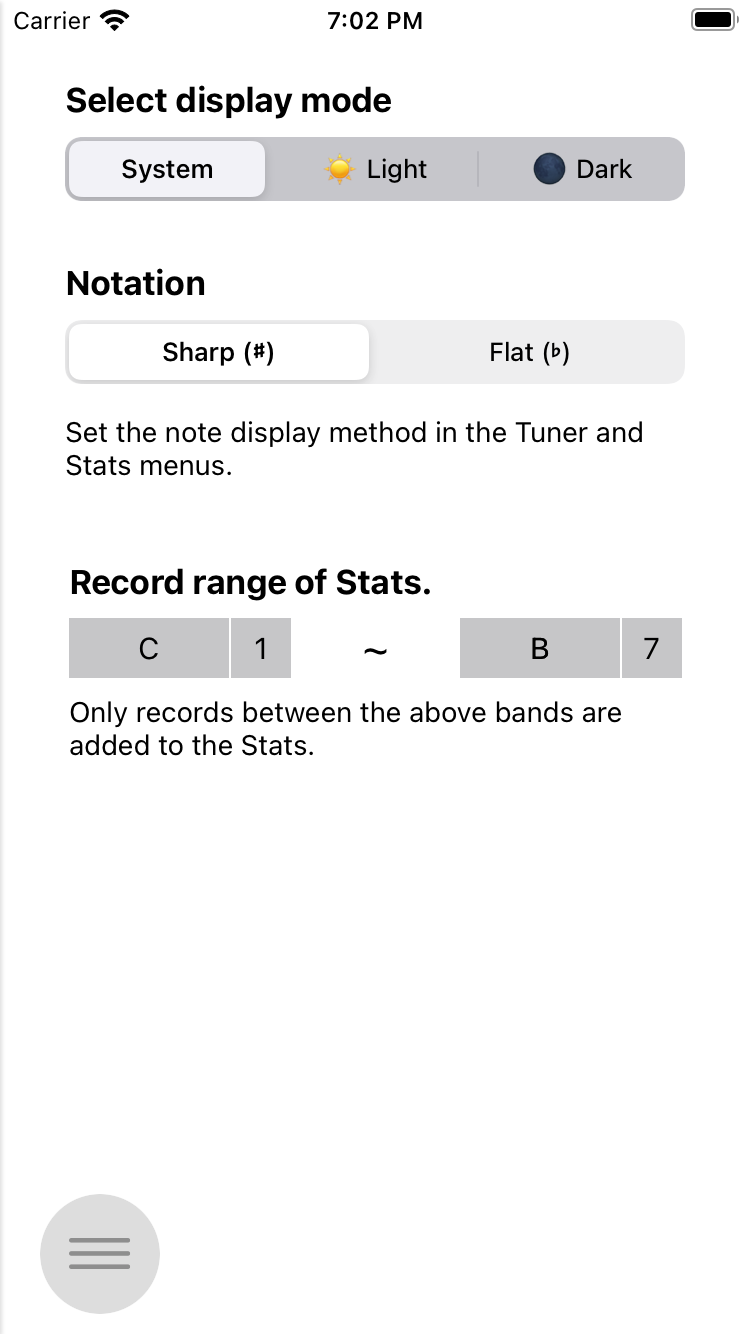
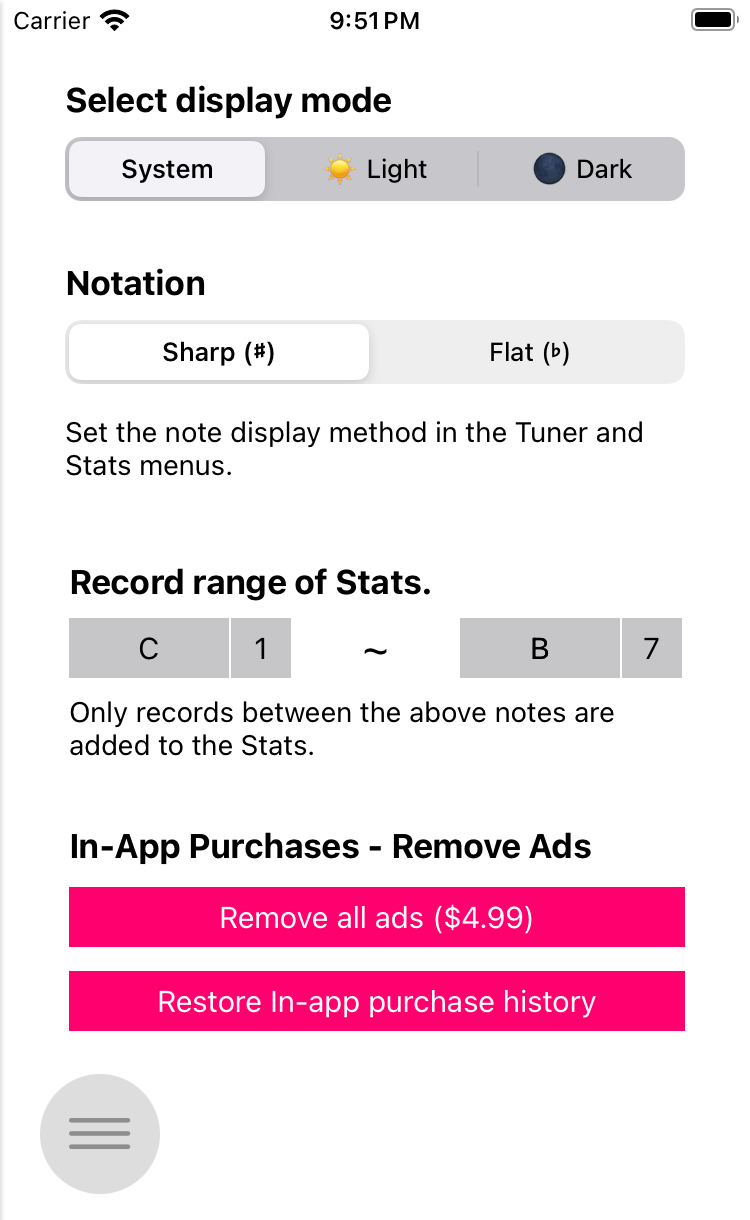
Feat: update help manual

diff --git a/Tuner/webpage/help-ja.html b/Tuner/webpage/help-ja.html
@@ -88,6 +88,11 @@
         <li>表示モードの選択：アプリで表示されるディスプレイモードを選択します。「システム」の場合、OSの基本的な設定を適用され、ライト、ダークモードは、OSの設定かどうかにかかわらず、ライトまたはダークモードで表示します。
         <li>表記：チューナー、統計メニューから半音をシャープ（＃）で表示するか、またはフラット（b）に表示するかを決定します。
         <li>統計記録音域：この部分を設定すると、チューナーのメニューから、その範囲内にある音だけ統計に記録します。
+        <li>アプリ内課金 - 広告を削除する：その商品を支払うと、アプリ内に表示されるすべての広告を完全に削除できます。
+             <ul>
+                 <li> [広告を削除]ボタンを押すと、App Storeから商品を購入できます。 一度購入すると、アプリ内のすべての広告が永久に表示されるわけではありません。
+                 <li>すでに広告を購入している場合は、アプリの再インストールなどで広告が再び表示される場合は、[支払いを復元]ボタンをクリックして商品を復元できます。
+            </ul>
     </ul>
     
     <hr>
@@ -102,7 +107,7 @@
 
     <hr>
     
-    <h3>BGSMM의 다른 앱 둘러보기</h3>
+    <h3>BGSMMの他のアプリを見る</h3>
     <ul id="introduce-app">
         <li>
             <div class="info">

diff --git a/Tuner/webpage/help-ko.html b/Tuner/webpage/help-ko.html
@@ -87,6 +87,11 @@
         <li>디스플레이 모드 선택: 앱에서 표시될 디스플레이 모드를 선택합니다. '시스템'의 경우 OS의 기본 설정을 따르며, 라이트, 다크 모드는 OS의 설정 여부와 관계없이 라이트 또는 다크 모드로 표시합니다.
         <li>표기법: 튜너, 통계 메뉴에서 반음을 샤프(#)로 표시할지 또는 플랫(b)로 표시할지 결정합니다.
         <li>통계 기록 음역대: 이 부분을 설정하면 튜너 메뉴에서 해당 범위 내에 있는 음들만 통계에 기록합니다.
+        <li>인앱 결제(In-App Purchase) - 광고 제거: 해당 상품을 결제하면 앱 내에서 표시되는 모든 광고를 영구적으로 제거할 수 있습니다.
+            <ul>
+                <li> '광고 제거' 버튼을 누르면 App Store를 통해 상품을 구매할 수 있습니다. 1회 구입으로 앱 내의 모든 광고가 영구적으로 표시되지 않습니다. 구매가 완료된 경우 헤당 버튼이 녹색 배경으로 변하며 구매 완료 메시지가 표시됩니다.
+                <li> 이미 광고를 구매한 상태인 경우, 앱의 재설치 등으로 인해서 광고가 다시 표시될 경우 '구매 내역 복원' 버튼을 눌러 상품을 복구할 수 있습니다.
+            </ul>
     </ul>
     
     <hr>

diff --git a/Tuner/webpage/help-en.html b/Tuner/webpage/help-en.html
@@ -87,6 +87,11 @@
         <li>Select display mode: Select the display mode to be displayed in the app. For 'System', the default settings of the OS are followed, and light and dark modes are displayed in light or dark mode regardless of whether the OS is set or not.
         <li>Notation: Determines whether semitones are displayed as sharp (#) or flat (b) in the tuner, stats menu.
         <li>Stats recording range: If set, only notes within the range in the tuner menu will be recorded in Stats.
+        <li>In-App Purchase - Ad Removal: By paying for the product, you can permanently remove all ads displayed within the app.
+             <ul>
+                 <li> Click the ‘Remove all ads’ button to purchase products through the App Store. This one-time purchase permanently blocks you from seeing all ads within the app.
+                 <li> If you have already purchased an ad, if the ad appears again due to reinstallation of the app, you can restore the product by pressing the 'Restore In-app purchase history' button.
+             </ul>
     </ul>
     
     <hr>
@@ -101,7 +106,7 @@
 
     <hr>
     
-    <h3>BGSMM의 다른 앱 둘러보기</h3>
+    <h3>Explore other apps from BGSMM</h3>
     <ul id="introduce-app">
         <li>
             <div class="info">
